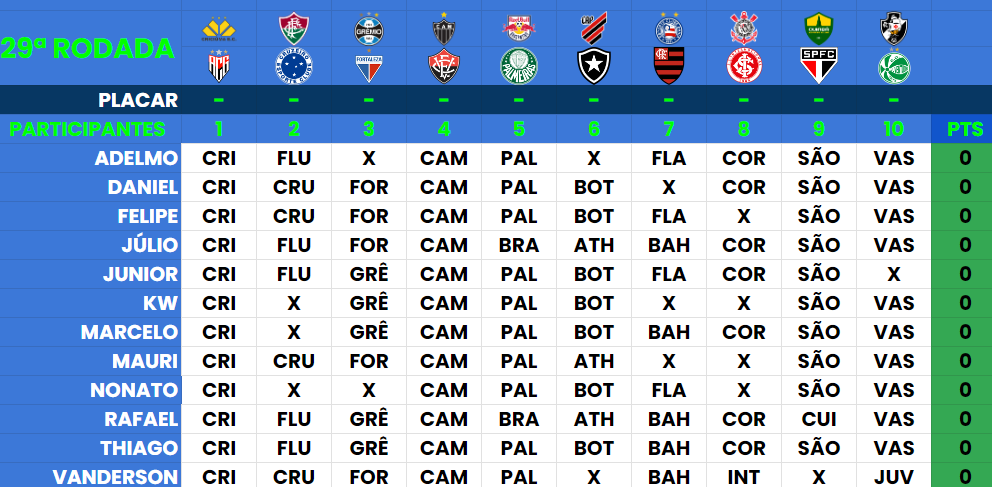
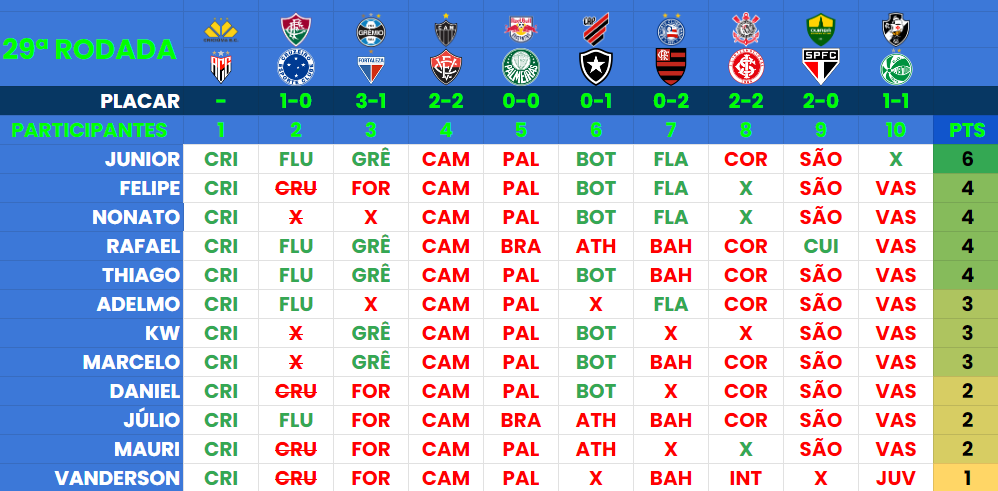
u

diff --git a/index.html b/index.html
@@ -51,12 +51,12 @@
           <img src="./assets/Round29.png" alt="Logo do Campeonato Brasileiro 2022" />
         </div>
         <div class="text">
-          <h2 class="title"><a href="./palpites_29.html">MERCADO ABERTO PARA A 29ª RODADA</a>
+          <h2 class="title"><a href="./predictor.html">Júnior é o melhor da Rodada 29</a>
           </h2>
           <p>
-            Mercado fecha nesta quinta-feira (03/10) às 19:00.
+            Baiano vence a rodada e agora se isola na liderança.
           </p>
-          <a class="button" href="./palpites_29.html">Palpitem na 29ª Rodada</a>
+          <a class="button" href="./predictor.html">Resumão da 29ª Rodada</a>
         </div>
       </div>
     </section>
@@ -177,7 +177,7 @@
           <div class="content">
             <h2 class="rank"><small>#</small>1</h2>
             <h4>Júnior</h4>
-            <p>137 Pontos</p>
+            <p>143 Pontos</p>
           </div>
         </div>
         <div class="list">
@@ -187,7 +187,7 @@
           <div class="content">
             <h2 class="rank"><small>#</small>2</h2>
             <h4>KW</h4>
-            <p>137 Pontos</p>
+            <p>140 Pontos</p>
           </div>
         </div>
         <div class="list">
@@ -197,7 +197,7 @@
           <div class="content">
             <h2 class="rank"><small>#</small>3</h2>
             <h4>Marcelo</h4>
-            <p>137 Pontos</p>
+            <p>140 Pontos</p>
           </div>
         </div>
         <div class="list">
@@ -207,7 +207,7 @@
           <div class="content">
             <h2 class="rank"><small>#</small>4</h2>
             <h4>Júlio César</h4>
-            <p>133 Pontos</p>
+            <p>135 Pontos</p>
           </div>
         </div>
         <div class="list">
@@ -217,7 +217,7 @@
           <div class="content">
             <h2 class="rank"><small>#</small>5</h2>
             <h4>Adelmo</h4>
-            <p>131 Pontos</p>
+            <p>134 Pontos</p>
           </div>
         </div>
         <div class="list">
@@ -227,17 +227,17 @@
           <div class="content">
             <h2 class="rank"><small>#</small>6</h2>
             <h4>Thiago</h4>
-            <p>130 Pontos</p>
+            <p>134 Pontos</p>
           </div>
         </div>
         <div class="list">
           <div class="imgBx">
-            <img src="./assets/fotos/fortaleza.png">
+            <img src="./assets/fotos/palmeiras.png">
           </div>
           <div class="content">
             <h2 class="rank"><small>#</small>7</h2>
-            <h4>Vanderson</h4>
-            <p>127 Pontos</p>
+            <h4>Rafael</h4>
+            <p>129 Pontos</p>
           </div>
         </div>
         <div class="list">
@@ -246,18 +246,8 @@
           </div>
           <div class="content">
             <h2 class="rank"><small>#</small>8</h2>
-            <h4>Mauri</h4>
-            <p>125 Pontos</p>
-          </div>
-        </div>
-        <div class="list">
-          <div class="imgBx">
-            <img src="./assets/fotos/palmeiras.png">
-          </div>
-          <div class="content">
-            <h2 class="rank"><small>#</small>9</h2>
-            <h4>Rafael</h4>
-            <p>125 Pontos</p>
+            <h4>Vanderson</h4>
+            <p>128 Pontos</p>
           </div>
         </div>
         <div class="list">
@@ -265,9 +255,19 @@
             <img src="./assets/fotos/ceará.png">
           </div>
           <div class="content">
-            <h2 class="rank"><small>#</small>10</h2>
+            <h2 class="rank"><small>#</small>9</h2>
             <h4>Nonato</h4>
-            <p>124 Pontos</p>
+            <p>128 Pontos</p>
+          </div>
+        </div>
+        <div class="list">
+          <div class="imgBx">
+            <img src="./assets/fotos/fortaleza.png">
+          </div>
+          <div class="content">
+            <h2 class="rank"><small>#</small>10</h2>
+            <h4>Mauri</h4>
+            <p>127 Pontos</p>
           </div>
         </div>
         <div class="list">
@@ -277,7 +277,7 @@
           <div class="content">
             <h2 class="rank"><small>#</small>11</h2>
             <h4>Felipe</h4>
-            <p>121 Pontos</p>
+            <p>125 Pontos</p>
           </div>
         </div>
         <div class="list">
@@ -287,7 +287,7 @@
           <div class="content">
             <h2 class="rank"><small>#</small>12</h2>
             <h4>Daniel</h4>
-            <p>120 Pontos</p>
+            <p>122 Pontos</p>
           </div>
         </div>
       </div>
